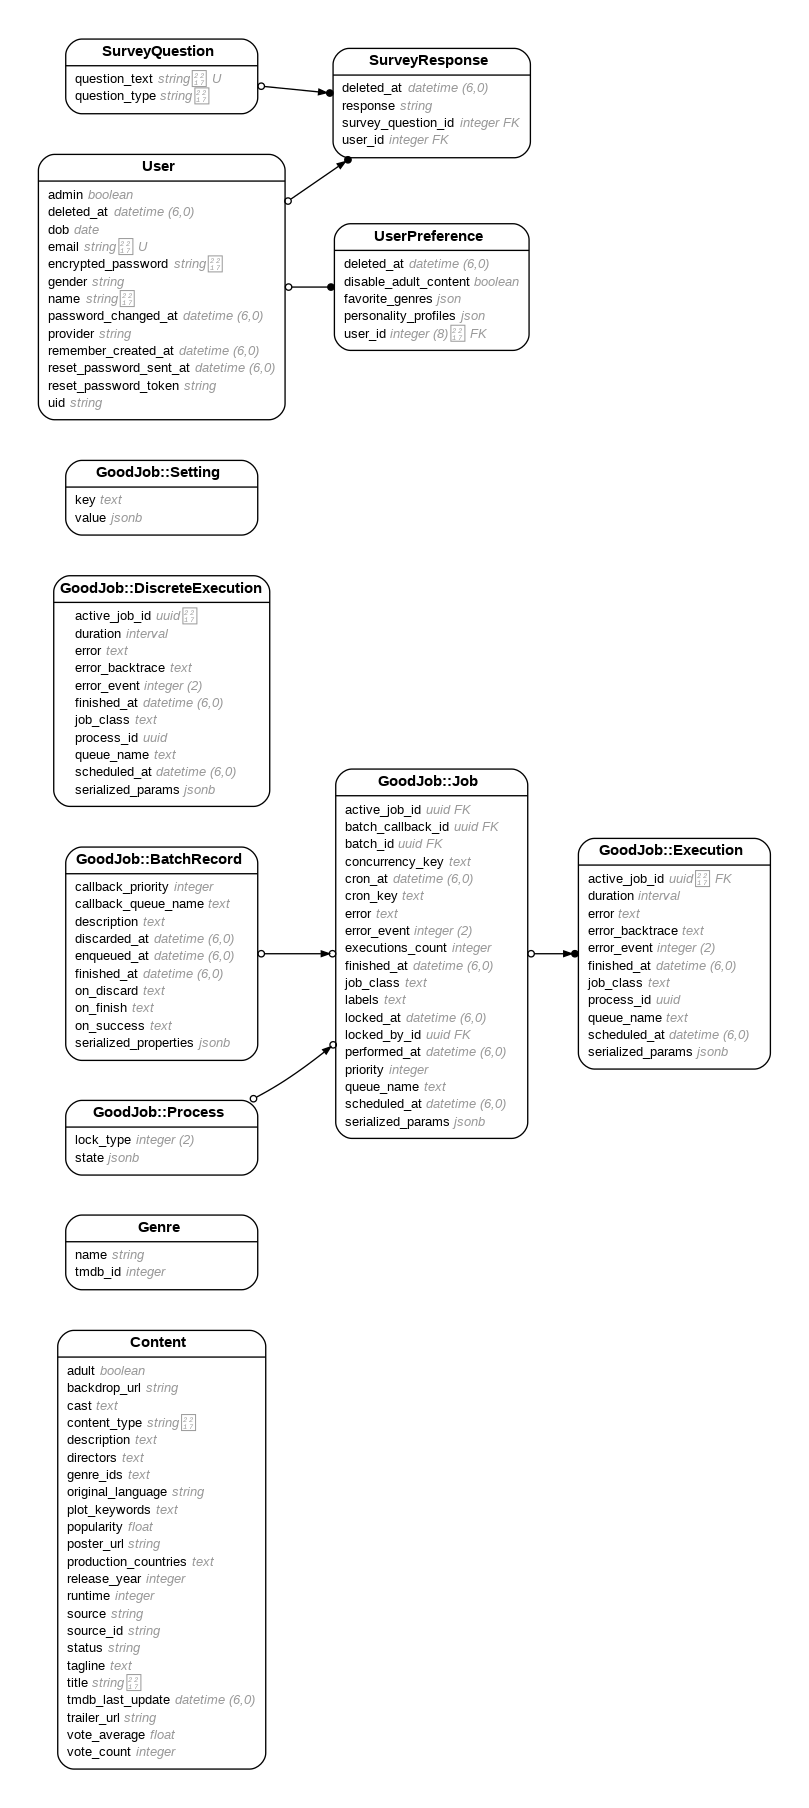
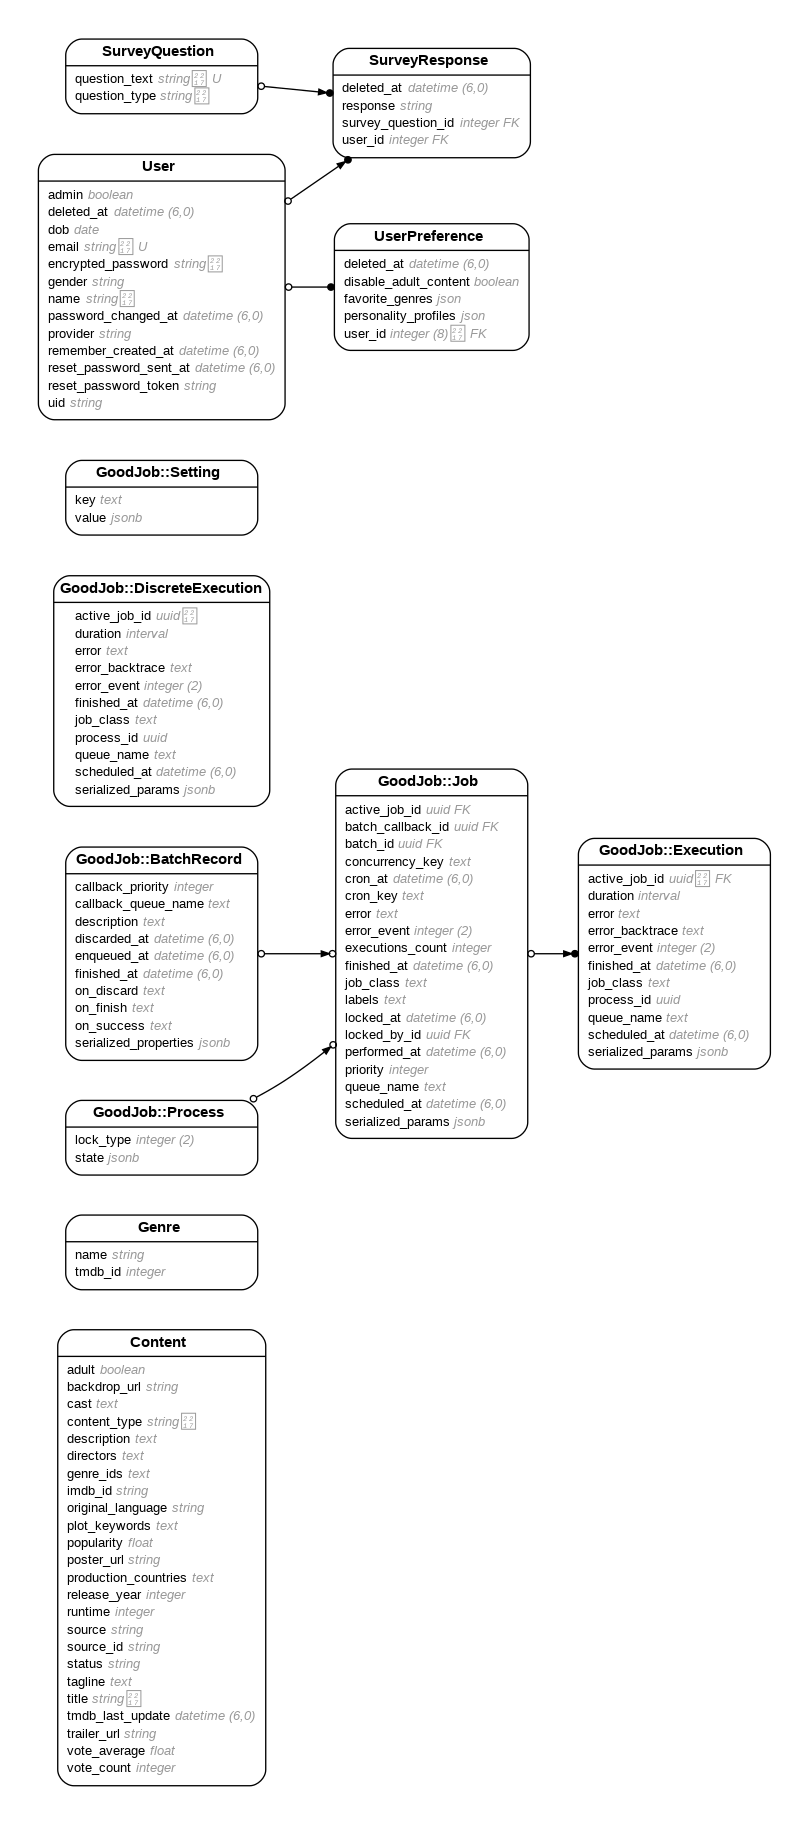
add imdb_id to content table

diff --git a/db/schema.rb b/db/schema.rb
@@ -10,7 +10,7 @@
 #
 # It's strongly recommended that you check this file into your version control system.
 
-ActiveRecord::Schema[7.1].define(version: 2024_09_11_225853) do
+ActiveRecord::Schema[7.1].define(version: 2024_09_13_000600) do
   # These are extensions that must be enabled in order to support this database
   enable_extension "pgcrypto"
   enable_extension "plpgsql"
@@ -55,6 +55,8 @@ ActiveRecord::Schema[7.1].define(version: 2024_09_11_225853) do
     t.text "cast"
     t.datetime "tmdb_last_update"
     t.boolean "adult", default: false
+    t.string "imdb_id"
+    t.index ["imdb_id"], name: "index_contents_on_imdb_id"
     t.index ["source_id"], name: "index_contents_on_source_id", unique: true
   end
 

diff --git a/app/models/content.rb b/app/models/content.rb
@@ -29,10 +29,12 @@
 #  vote_count           :integer
 #  created_at           :datetime         not null
 #  updated_at           :datetime         not null
+#  imdb_id              :string
 #  source_id            :string
 #
 # Indexes
 #
+#  index_contents_on_imdb_id    (imdb_id)
 #  index_contents_on_source_id  (source_id) UNIQUE
 #
 class Content < ApplicationRecord

diff --git a/db/migrate/20240913000600_add_imdb_id_to_contents.rb b/db/migrate/20240913000600_add_imdb_id_to_contents.rb
@@ -1,0 +1,6 @@
+class AddImdbIdToContents < ActiveRecord::Migration[7.1]
+  def change
+    add_column :contents, :imdb_id, :string
+    add_index :contents, :imdb_id
+  end
+end
